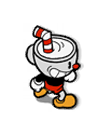
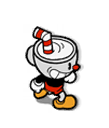
리소스 업데이트

Changed region(s): [[0.2202, 0.1875, 0.7431, 0.875]]

diff --git a/DirectX_UTG/GameEngineContents/Player_Overworld.cpp b/DirectX_UTG/GameEngineContents/Player_Overworld.cpp
@@ -811,7 +811,7 @@ void Player_Overworld::PlayerInitialSetting()
 
 	// Setting
 	RenderPtr->GetTransform()->SetLocalScale({103, 113});
-	RenderPtr->GetTransform()->SetLocalPosition({ 0, 30 });
+	RenderPtr->GetTransform()->SetLocalPosition({ 0, 40 });
 	RenderPtr->ChangeAnimation("Down_Idle");
 
 	if (nullptr == EnterMessageRenderPtr)
